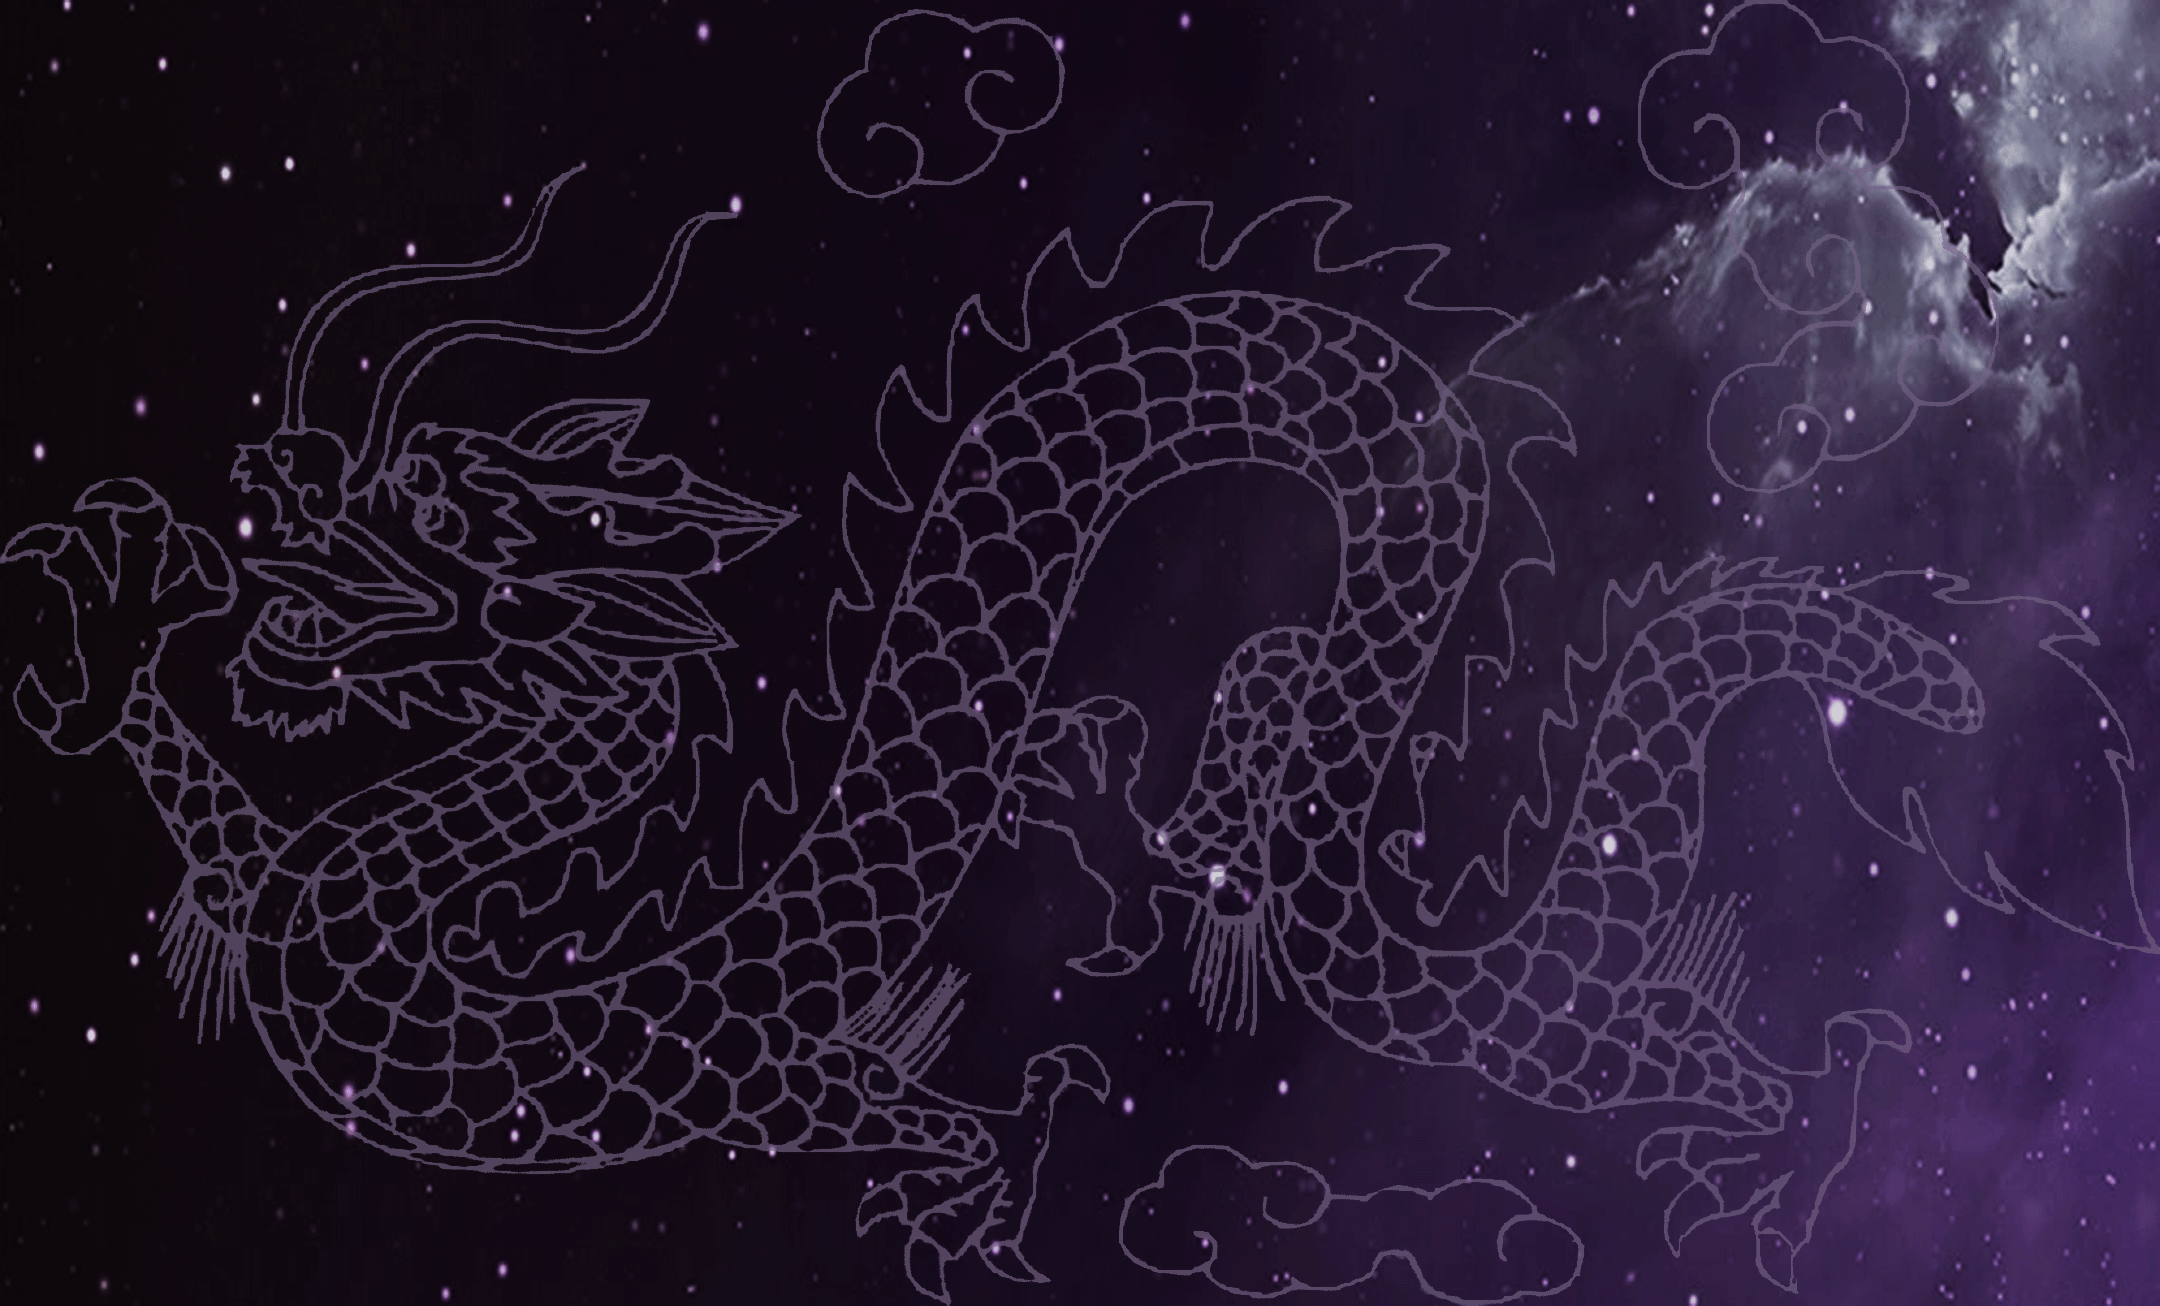
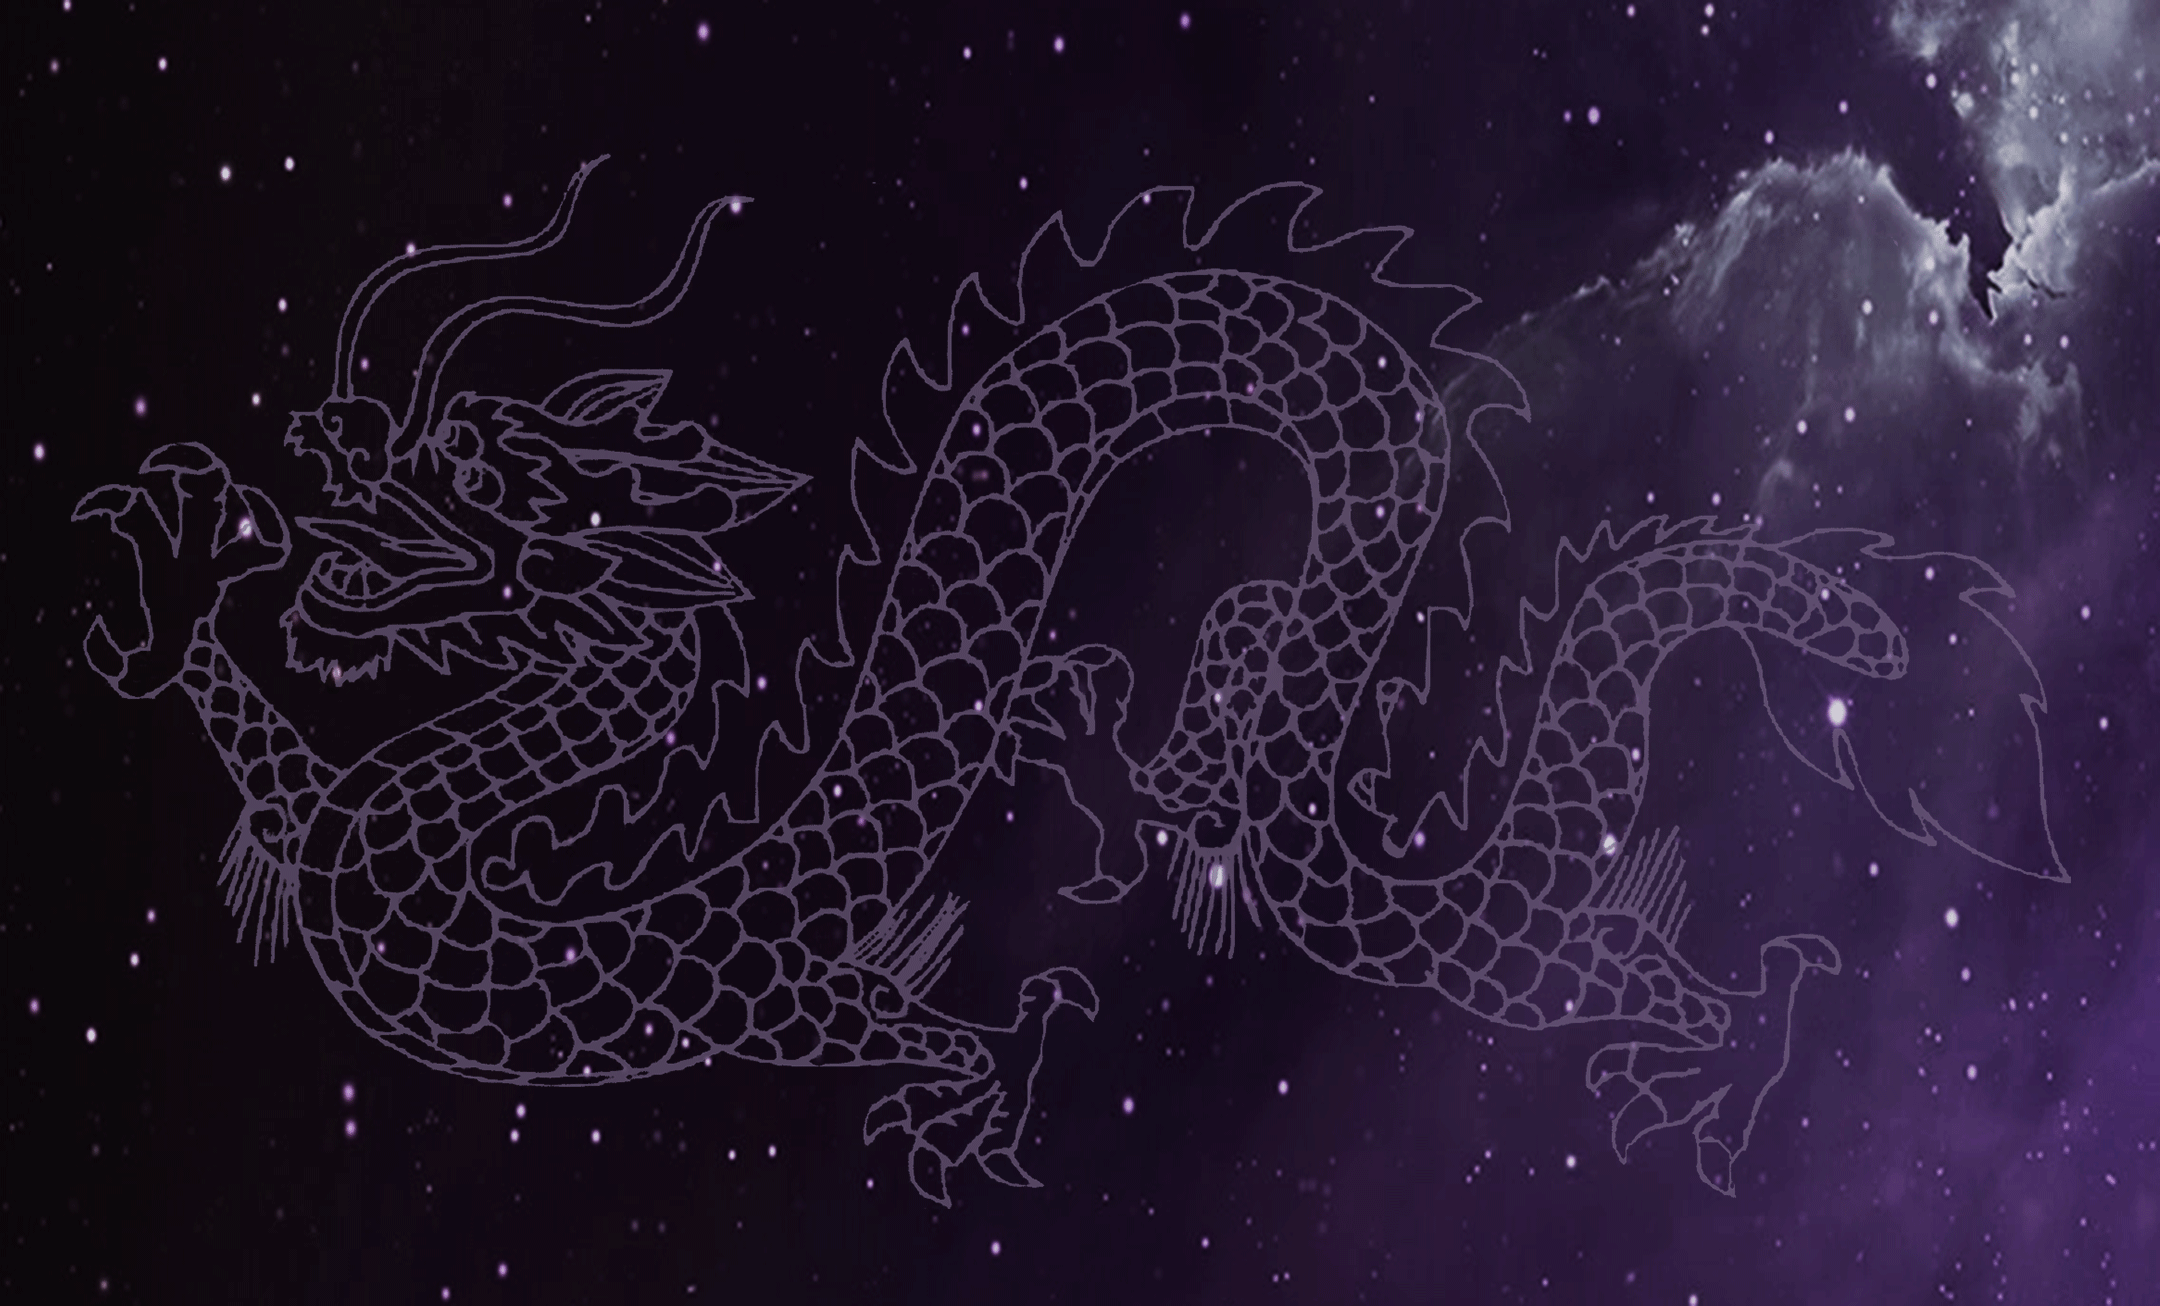
替换了龙图,临时摆了星星的位置到龙上,解决了星星闪烁的bug

diff --git a/core/src/com/bsu/bk42/screen/StarScreen.java b/core/src/com/bsu/bk42/screen/StarScreen.java
@@ -4,6 +4,7 @@ import aurelienribon.tweenengine.*;
 import com.badlogic.gdx.Gdx;
 import com.badlogic.gdx.graphics.*;
 import com.badlogic.gdx.graphics.glutils.ShapeRenderer;
+import com.badlogic.gdx.math.MathUtils;
 import com.badlogic.gdx.math.Vector2;
 import com.badlogic.gdx.scenes.scene2d.*;
 import com.badlogic.gdx.scenes.scene2d.ui.Image;
@@ -68,8 +69,10 @@ public class StarScreen extends UGameScreen {
         tx_star = new Texture(Gdx.files.internal("star.png"));
         all3ScreenStars = init3ScreenStars(tx_star);
         currStars = all3ScreenStars.get(currScreen);
-        for(StarImage si:currStars)
+        for(StarImage si:currStars) {
+            si.appear();
             stage.addActor(si);
+        }
 
 
         stage.addListener(new DragListener(){
@@ -84,6 +87,7 @@ public class StarScreen extends UGameScreen {
                         linePoints.add(new Vector2(si.getX()+si.getWidth()/2,si.getY()+si.getHeight()/2));
                     }
                 }
+                System.out.println("x:"+x+" y:"+y);
 //                sbi.goRight();
                 return true;
             }
@@ -117,11 +121,10 @@ public class StarScreen extends UGameScreen {
                                 @Override
                                 public void disappearCompleted(StarImage si) {
                                     if (++disappearCount == currStars.size) {
-                                        sbi.goRight();                                                                                      //背景向右移动
-                                        currStars = all3ScreenStars.get(++currScreen);                                                 //切到下一屏的星星
-//                                    for(StarImage sii:currStars)                                                                       //增加新屏幕的星星
-//                                        stage.addActor(sii);
-                                        stage.getActors().removeValue(si, true);                                           //动画完成移除所有星星
+                                        sbi.goRight();                                                                  //背景向右移动
+                                        disappearCount = 0;                                                           //消失的星星统计归0
+                                        currStars = all3ScreenStars.get(++currScreen);                             //切到下一屏的星星
+                                        stage.getActors().removeValue(si, true);                                       //动画完成移除所有星星
                                     }
                                 }
 
@@ -141,9 +144,7 @@ public class StarScreen extends UGameScreen {
                                 @Override
                                 public void disappearCompleted(StarImage si) {
                                     if (++disappearCount == currStars.size) {
-//                                        sbi.goRight();                                                                                      //背景向右移动
                                         sbi.goScale();
-//                                        currStars = all3ScreenStars.get(++currScreen);                                                 //切到下一屏的星星
                                         stage.getActors().removeValue(si, true);                                           //动画完成移除所有星星
                                     }
                                 }
@@ -224,8 +225,8 @@ public class StarScreen extends UGameScreen {
         Array<StarImage> s = new Array<StarImage>();
         for(int i=0;i<count;i++) {
             StarImage si = new StarImage(t);
-            si.setId("S"+sumStarCount++);
-            si.setPosition(p[i][0],p[i][1]);
+            si.setId("S" + sumStarCount++);
+            si.setPosition(p[i][0]-si.getWidth()/2,p[i][1]-si.getHeight()/2);
             s.add(si);
         }
         return s;
@@ -238,10 +239,9 @@ public class StarScreen extends UGameScreen {
      */
     private Array<Array<StarImage>> init3ScreenStars(Texture t){
         Array<Array<StarImage>> sstars = new Array<Array<StarImage>>();
-        sstars.add(init1ScreenStars(t,4,new int[][]{{256,856},{160,756},{150,590},{200,400}}));
-        sstars.add(init1ScreenStars(t,5,new int[][]{{256,856},{160,756},{150,590},{200,400},{330,420}}));
-        sstars.add(init1ScreenStars(t,12,new int[][]{{256,856},{160,756},{150,590},{200,400},{330,420},{346,279},
-                {206,856},{110,756},{100,590},{150,400},{280,420},{296,279}}));
+        sstars.add(init1ScreenStars(t,4,new int[][]{{500,580},{261,700},{307,265},{60,382}}));
+        sstars.add(init1ScreenStars(t,8,new int[][]{{607,393},{391,505},{612,689},{520,955},{273,780},{171,523},{282,241},{39,360}}));
+        sstars.add(init1ScreenStars(t,9,new int[][]{{622,296},{390,398},{186,662},{526,545},{606,696},{639,782},{604,859},{351,857},{475,811}}));
         return sstars;
     }
 
@@ -264,59 +264,61 @@ class StarImage extends Image implements Disposable {
     private OpacityListener listener = null;                                                                      //监听消失操作是否完成
 
 
-    public StarImage(Texture t){
+    public StarImage(Texture t) {
         super(t);
-        this.setOrigin(this.getWidth()/2,this.getHeight()/2);
+        this.setOrigin(t.getWidth() / 2, t.getHeight() / 2);
         Tween.registerAccessor(Image.class, new ActorAccessor());
+        float delay = MathUtils.random(0.2f,0.8f);
+        float minval = MathUtils.random(0.2f,0.6f);
         tl = Timeline.createSequence()
                 .push(
                         Timeline.createParallel()
-                                .push(Tween.to(this,ActorAccessor.OPACITY,.5f).target(.3f)
-                                        .ease(TweenEquations.easeNone)
+                                .push(Tween.to(this, ActorAccessor.OPACITY, delay).target(minval)
+                                                .ease(TweenEquations.easeNone)
                                 )
-                                .push(Tween.to(this,ActorAccessor.SCALE_XY,.5f).target(.3f,.3f)
-                                        .ease(TweenEquations.easeNone)
+                                .push(Tween.to(this, ActorAccessor.SCALE_XY, delay).target(minval, minval)
+                                                .ease(TweenEquations.easeNone)
                                 )
                 )
                 .push(
                         Timeline.createParallel()
-                                .push(Tween.to(this,ActorAccessor.OPACITY,.5f).target(1.0f)
+                                .push(Tween.to(this, ActorAccessor.OPACITY, delay).target(1.0f)
                                                 .ease(TweenEquations.easeNone)
                                 )
-                                .push(Tween.to(this,ActorAccessor.SCALE_XY,.5f).target(1.0f,1.0f)
+                                .push(Tween.to(this, ActorAccessor.SCALE_XY, delay).target(1.0f, 1.0f)
                                                 .ease(TweenEquations.easeNone)
                                 )
-                ).repeat(-1,.0f).start();
-
-//        Tween.to(this, ActorAccessor.ROTATION_CPOS_XY, 1.0f).target(360.0f)
-//                .ease(TweenEquations.easeNone)
-//                .repeat(-1, 0.0f).start(tm);
+                ).repeat(-1, .0f);
     }
 
     /**
      * 消失动作
      */
     public void disappear(){
-        tm.killAll();
-        Tween.to(this,ActorAccessor.OPACITY,1.0f).target(.0f)
+        Tween.to(this, ActorAccessor.OPACITY, 1.0f).target(.0f)
                 .ease(TweenEquations.easeNone).setCallback(new TweenCallback() {
             @Override
             public void onEvent(int i, BaseTween<?> baseTween) {
-                if (i == TweenCallback.COMPLETE && listener != null) {
+                tl.kill();
+                tm.killAll();
+                if (i == TweenCallback.COMPLETE && listener != null)
                     listener.disappearCompleted(StarImage.this);
-                }
             }
         }).start(tm);
     }
 
+    /**
+     * 出现动作
+     */
     public void appear(){
-        tm.killAll();
         Tween.to(this,ActorAccessor.OPACITY,1.0f).target(1.0f)
                 .ease(TweenEquations.easeNone).setCallback(new TweenCallback() {
             @Override
             public void onEvent(int i, BaseTween<?> baseTween) {
-                if (i == TweenCallback.COMPLETE && listener != null)
+                tl.start();
+                if (i == TweenCallback.COMPLETE && listener != null) {
                     listener.appearCompleted(StarImage.this);
+                }
             }
         }).start(tm);
     }
